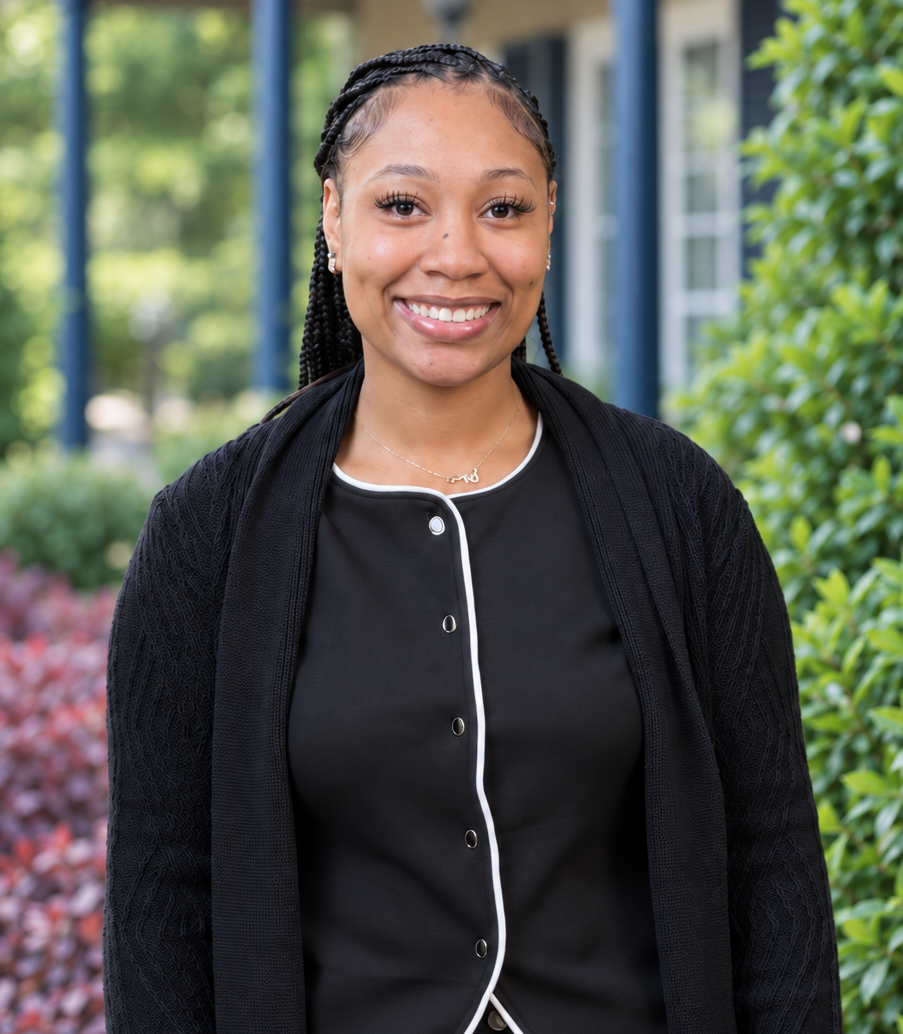
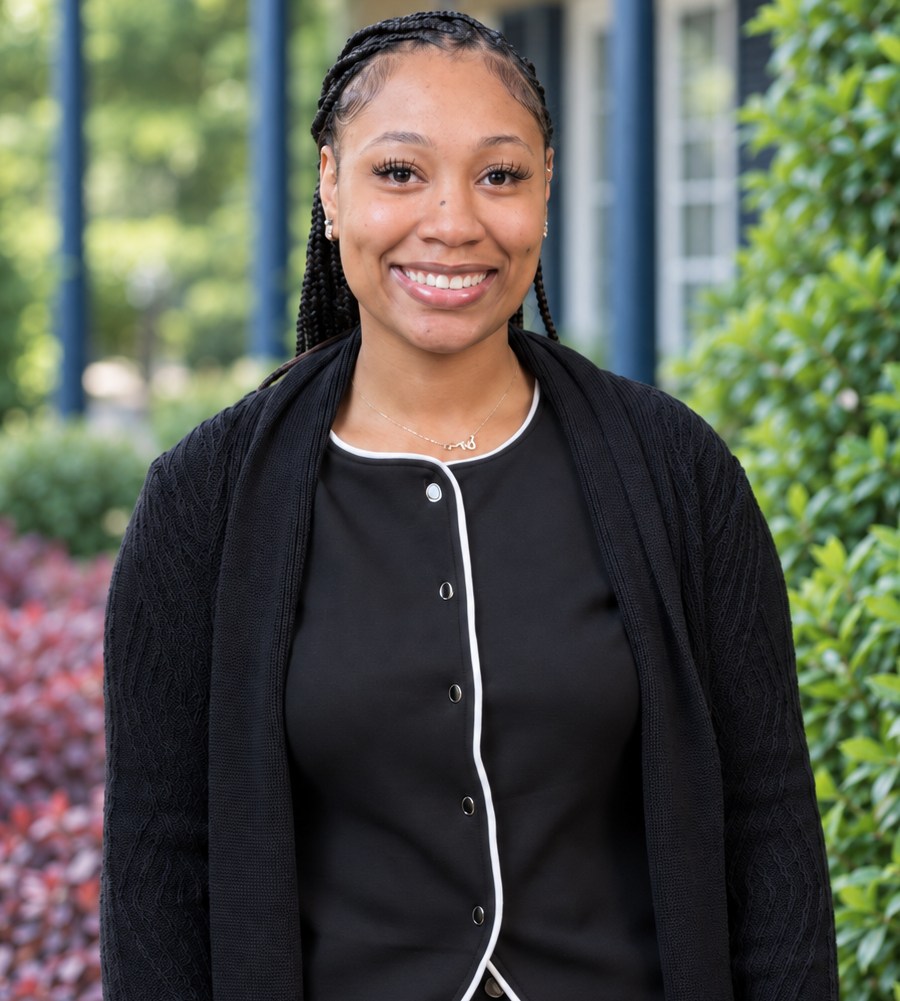
pictures updated

diff --git a/team.html b/team.html
@@ -224,7 +224,7 @@
           </article>
           <article class="team-card">
             <div class="team-card__photo">
-              <img src="assets/team/BW.jpg" alt="Brandon Wahl" loading="lazy" width="400" height="500">
+              <img src="assets/team/BW.png" alt="Brandon Wahl" loading="lazy" width="400" height="500">
             </div>
             <div class="team-card__body">
               <h3 class="team-card__name">Brandon Wahl</h3>
@@ -261,7 +261,7 @@
           </article>
           <article class="team-card">
             <div class="team-card__photo">
-              <img src="assets/team/AS.jpg" alt="Austin Scott" loading="lazy" width="400" height="500">
+              <img src="assets/team/AS.png" alt="Austin Scott" loading="lazy" width="400" height="500">
             </div>
             <div class="team-card__body">
               <h3 class="team-card__name">Austin Scott</h3>
@@ -270,7 +270,7 @@
           </article>
           <article class="team-card">
             <div class="team-card__photo">
-              <img src="assets/team/SP.jpg" alt="Scott Poulin" loading="lazy" width="400" height="500">
+              <img src="assets/team/SP.png" alt="Scott Poulin" loading="lazy" width="400" height="500">
             </div>
             <div class="team-card__body">
               <h3 class="team-card__name">Scott Poulin</h3>
@@ -279,7 +279,7 @@
           </article>
           <article class="team-card">
             <div class="team-card__photo">
-              <img src="assets/team/RB.jpg" alt="Raymond Billings" loading="lazy" width="400" height="500">
+              <img src="assets/team/RB.png" alt="Raymond Billings" loading="lazy" width="400" height="500">
             </div>
             <div class="team-card__body">
               <h3 class="team-card__name">Raymond Billings</h3>
@@ -289,7 +289,7 @@
 
           <article class="team-card">
             <div class="team-card__photo">
-              <img src="assets/team/MT.jpg" alt="Matthew Tillman" loading="lazy" width="400" height="500">
+              <img src="assets/team/MT.png" alt="Matthew Tillman" loading="lazy" width="400" height="500">
             </div>
             <div class="team-card__body">
               <h3 class="team-card__name">Matthew Tillman</h3>
@@ -342,8 +342,7 @@
           </article>
           <article class="team-card">
             <div class="team-card__photo">
-              <!-- TODO: add photo -->
-              <span class="team-card__initials" aria-hidden="true">DA</span>
+            <img src="assets/team/DA.png" alt="Dorian Alexander" loading="lazy" width="400" height="500">
             </div>
             <div class="team-card__body">
               <h3 class="team-card__name">Dorian Alexander</h3>
@@ -352,8 +351,7 @@
           </article>
           <article class="team-card">
             <div class="team-card__photo">
-              <!-- TODO: add photo -->
-              <span class="team-card__initials" aria-hidden="true">DE</span>
+            <img src="assets/team/DE.png" alt="Darrenisha Earlycutt" loading="lazy" width="400" height="500">
             </div>
             <div class="team-card__body">
               <h3 class="team-card__name">Darrenisha Earlycutt</h3>
@@ -379,7 +377,7 @@
 
           <article class="team-card">
             <div class="team-card__photo">
-              <img src="assets/team/CG.JPG" alt="Christina Gonzales" loading="lazy" width="400" height="500">
+              <img src="assets/team/CG.png" alt="Christina Gonzales" loading="lazy" width="400" height="500">
             </div>
             <div class="team-card__body">
               <h3 class="team-card__name">Christina Gonzales</h3>
@@ -388,7 +386,7 @@
           </article>
           <article class="team-card">
             <div class="team-card__photo">
-              <img src="assets/team/KC.JPG" alt="Kimberly Curtis" loading="lazy" width="400" height="500">
+              <img src="assets/team/KC.png" alt="Kimberly Curtis" loading="lazy" width="400" height="500">
             </div>
             <div class="team-card__body">
               <h3 class="team-card__name">Kimberly Curtis</h3>

diff --git a/styles.css b/styles.css
@@ -3166,13 +3166,21 @@ section[id],
   margin-inline: auto;
 }
 
-/* Agents */
+/* Agents / SDR / Operations — flex so a partial last row stays centred */
 .team__agents {
-  display: grid;
-  grid-template-columns: repeat(3, minmax(0, 1fr));
-  gap: var(--sp-8);
+  --team-cols: 3;
+  --team-gap: var(--sp-8);
+  display: flex;
+  flex-wrap: wrap;
+  justify-content: center;
+  gap: var(--team-gap);
   max-width: 64rem;
   margin-inline: auto;
+}
+
+.team__agents > .team-card {
+  flex: 0 0 calc((100% - (var(--team-cols) - 1) * var(--team-gap)) / var(--team-cols));
+  min-width: 0;
 }
 
 .team-card {
@@ -3200,18 +3208,6 @@ section[id],
   height: 100%;
   object-fit: cover;
   object-position: center 20%;
-}
-
-/* Placeholder until a photo is available */
-.team-card__initials {
-  position: absolute;
-  inset: 0;
-  display: grid;
-  place-items: center;
-  font-family: var(--font-heading);
-  font-size: var(--text-4xl);
-  font-weight: 700;
-  color: var(--c-teal-deep);
 }
 
 .team-card__body {
@@ -3268,15 +3264,15 @@ section[id],
   }
 
   .team__agents {
-    grid-template-columns: repeat(2, minmax(0, 1fr));
-    gap: var(--sp-6);
+    --team-cols: 2;
+    --team-gap: var(--sp-6);
   }
 }
 
 /* Phones: one agent card per row, same width as the owner cards */
 @media (max-width: 600px) {
   .team__agents {
-    grid-template-columns: 1fr;
+    --team-cols: 1;
     max-width: 22rem;
   }
 }
